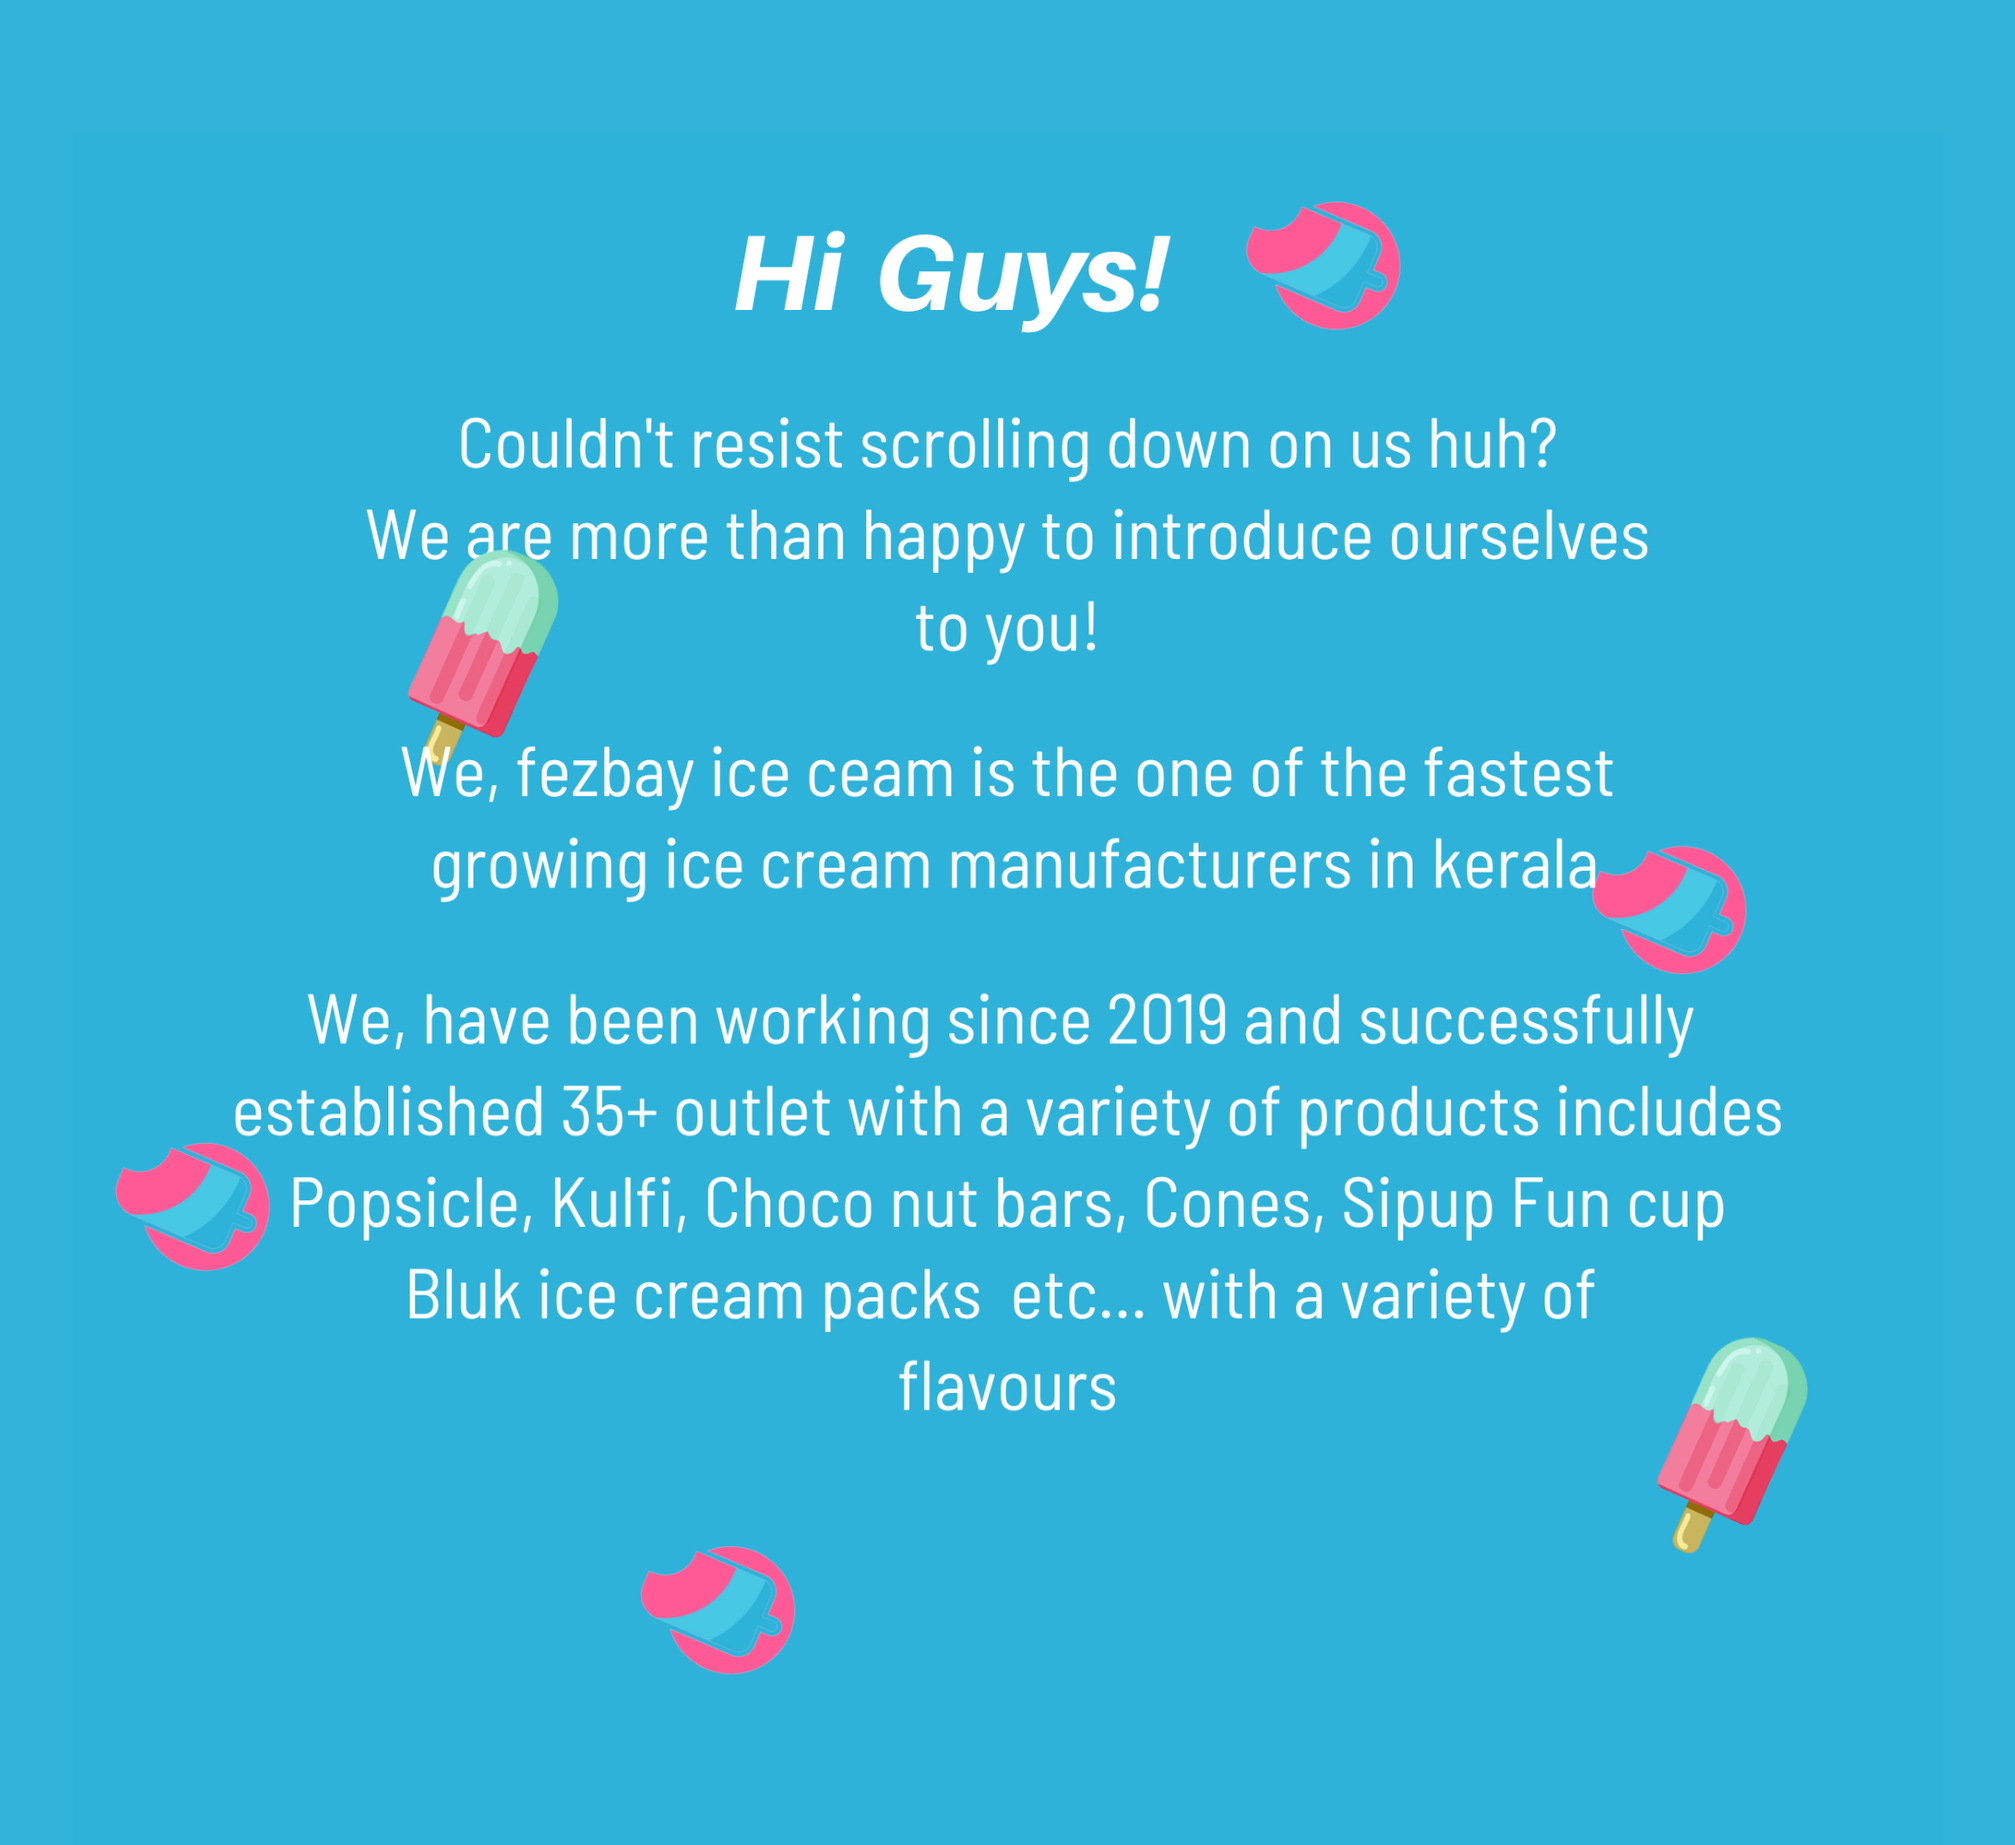
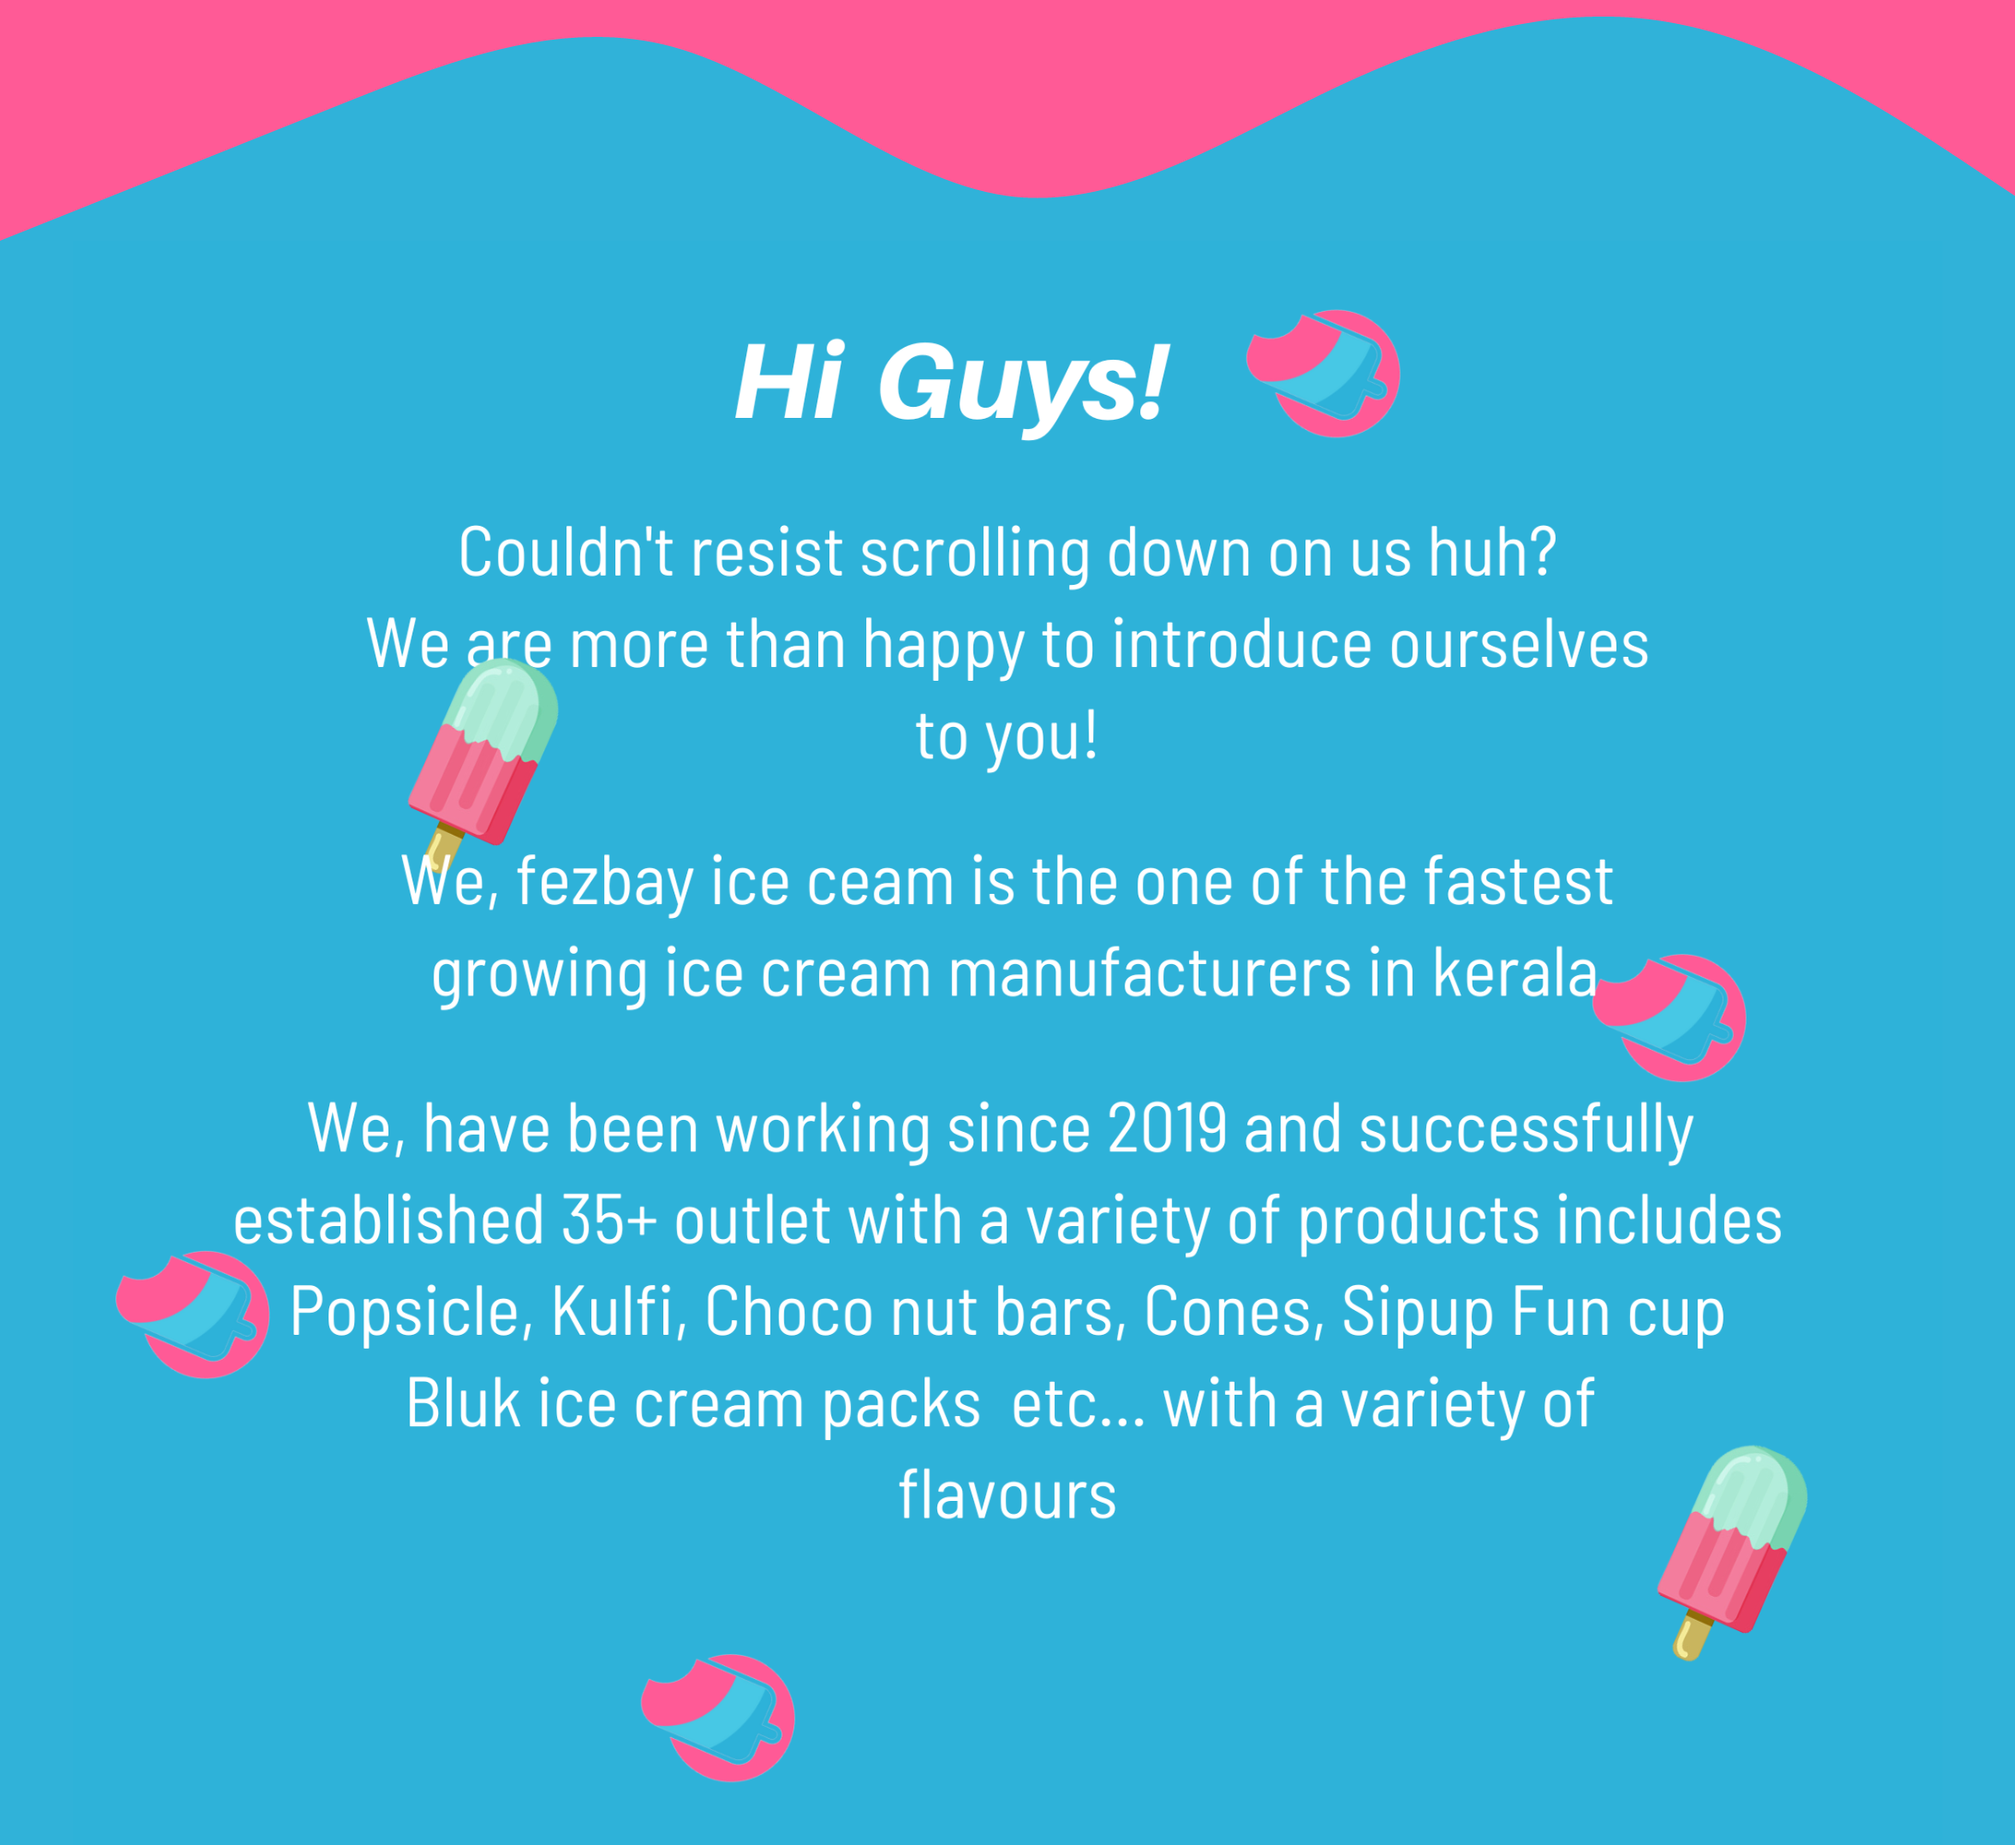
6

Changed region(s): [[0.0, 0.0, 1.0, 0.899], [0.3114, 0.837, 0.4048, 0.992], [0.4359, 0.806, 0.5604, 0.837]]

diff --git a/index.html b/index.html
@@ -164,7 +164,7 @@
       </div>
     <div class="row row-1">
       <div class="col-lg-6 col-md-12 col-sm-12">
-        <img src="img/about img new.png" width="100%" alt="">
+        <img src="img/about img.png" width="100%" alt="">
       </div>
       <div class="col-lg-6 col-sm-12 d-none">
         <div class="flip-card">
